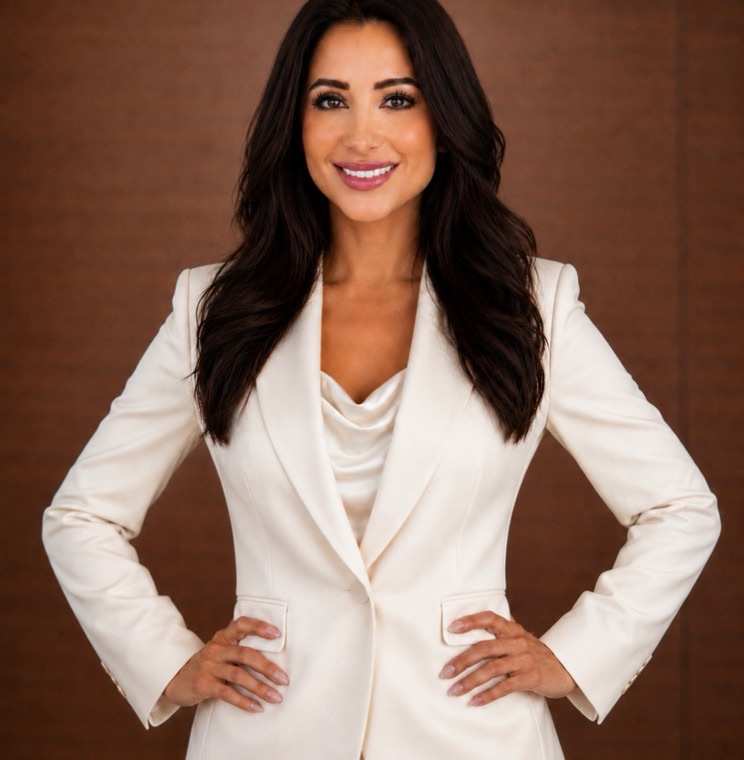
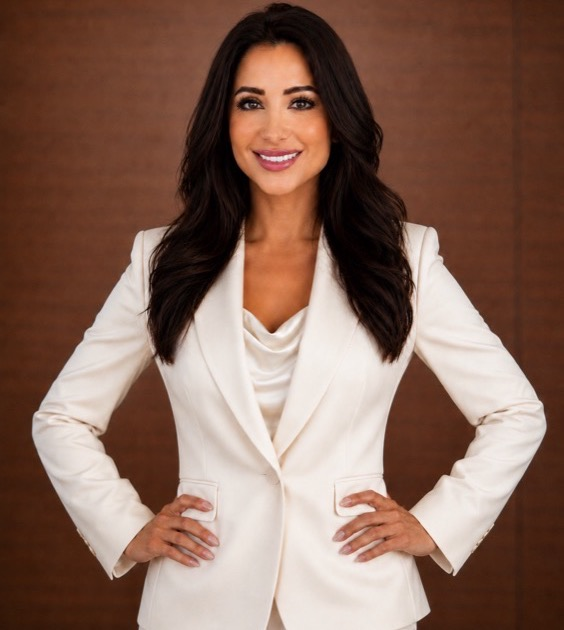
Uncropped headshot (full head) and smaller landing headline

diff --git a/styles.css b/styles.css
@@ -23,7 +23,7 @@ body {
 }
 img { max-width: 100%; display: block; }
 h1, h2, h3, h4 { font-family: "Playfair Display", Georgia, serif; font-style: normal; font-weight: 600; line-height: 1.18; margin: 0 0 .5em; letter-spacing: -0.01em; }
-h1 { font-size: clamp(2.2rem, 6vw, 3.9rem); font-weight: 700; }
+h1 { font-size: clamp(1.9rem, 4.4vw, 2.8rem); font-weight: 700; }
 h2 { font-size: clamp(1.5rem, 3.6vw, 2.1rem); font-weight: 700; color: var(--navy); }
 h3 { font-size: 1.25rem; color: var(--navy); margin-top: 1.6em; }
 p { margin: 0 0 1em; }

diff --git a/app.js b/app.js
@@ -121,7 +121,7 @@
           (resume ? '<button class="btn btn-ghost" data-act="restart">Start over</button>' : "") + '</div>' +
           '<p class="fine">Built on the science behind predictable success.</p>' +
         '</div>' +
-        '<div class="hero-photo"><img src="rola.jpg?v=2" alt="Rola Diab" width="744" height="760"></div>' +
+        '<div class="hero-photo"><img src="rola.jpg?v=3" alt="Rola Diab" width="564" height="630"></div>' +
       '</div></section>' +
 
       '<section class="band"><div class="wrap narrow">' +
